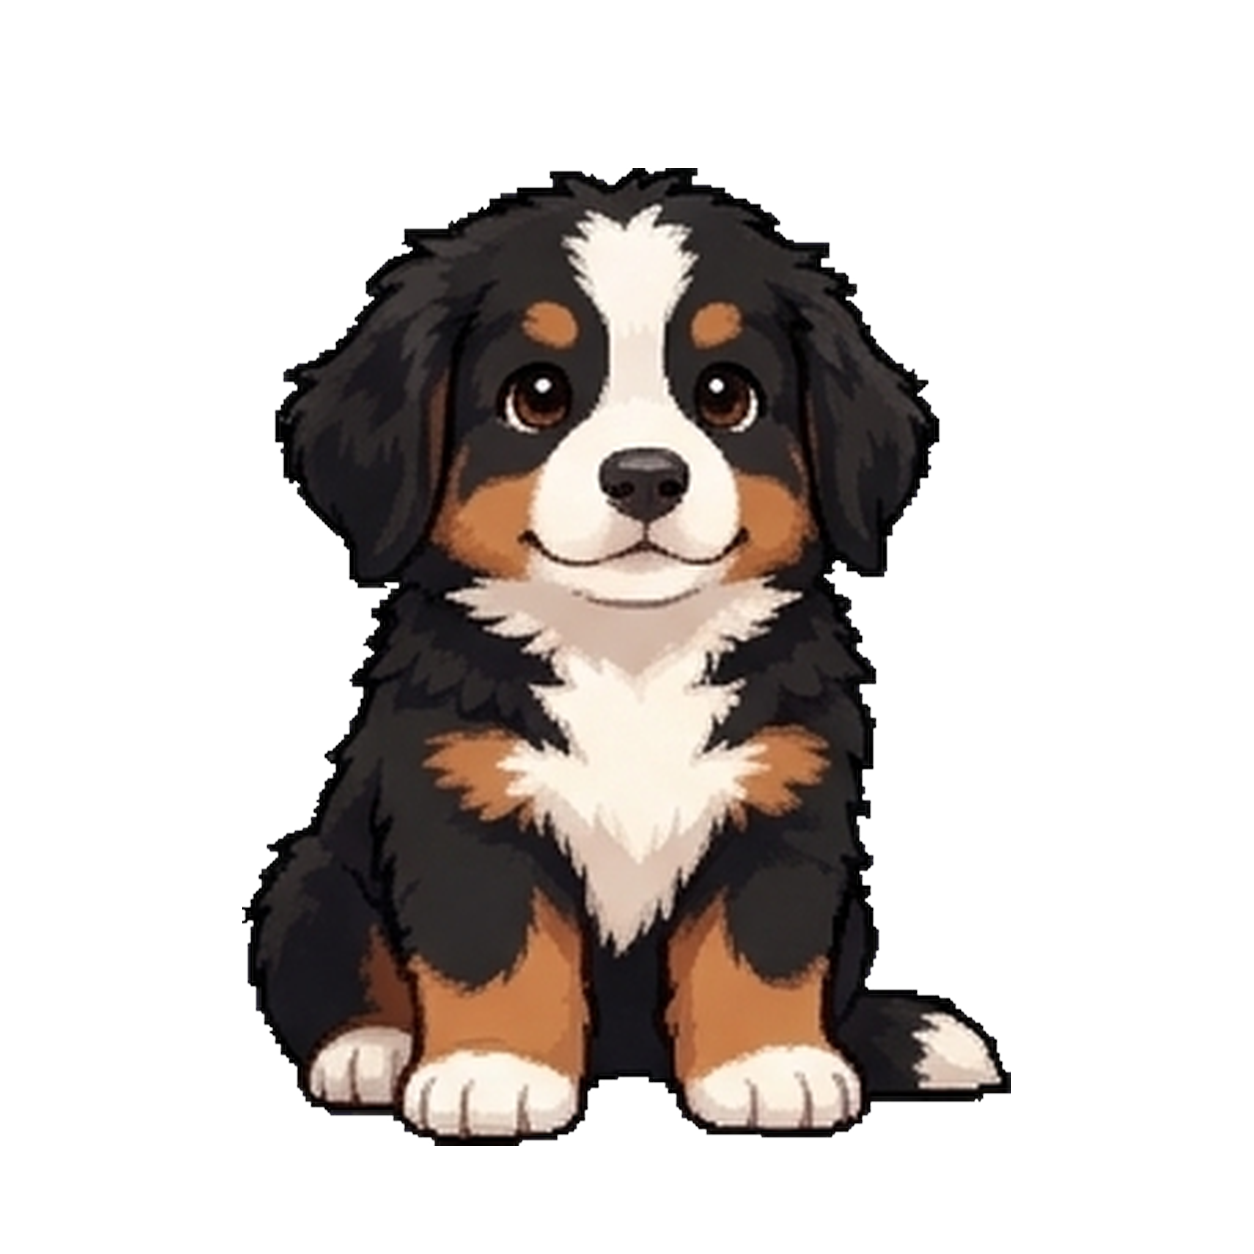
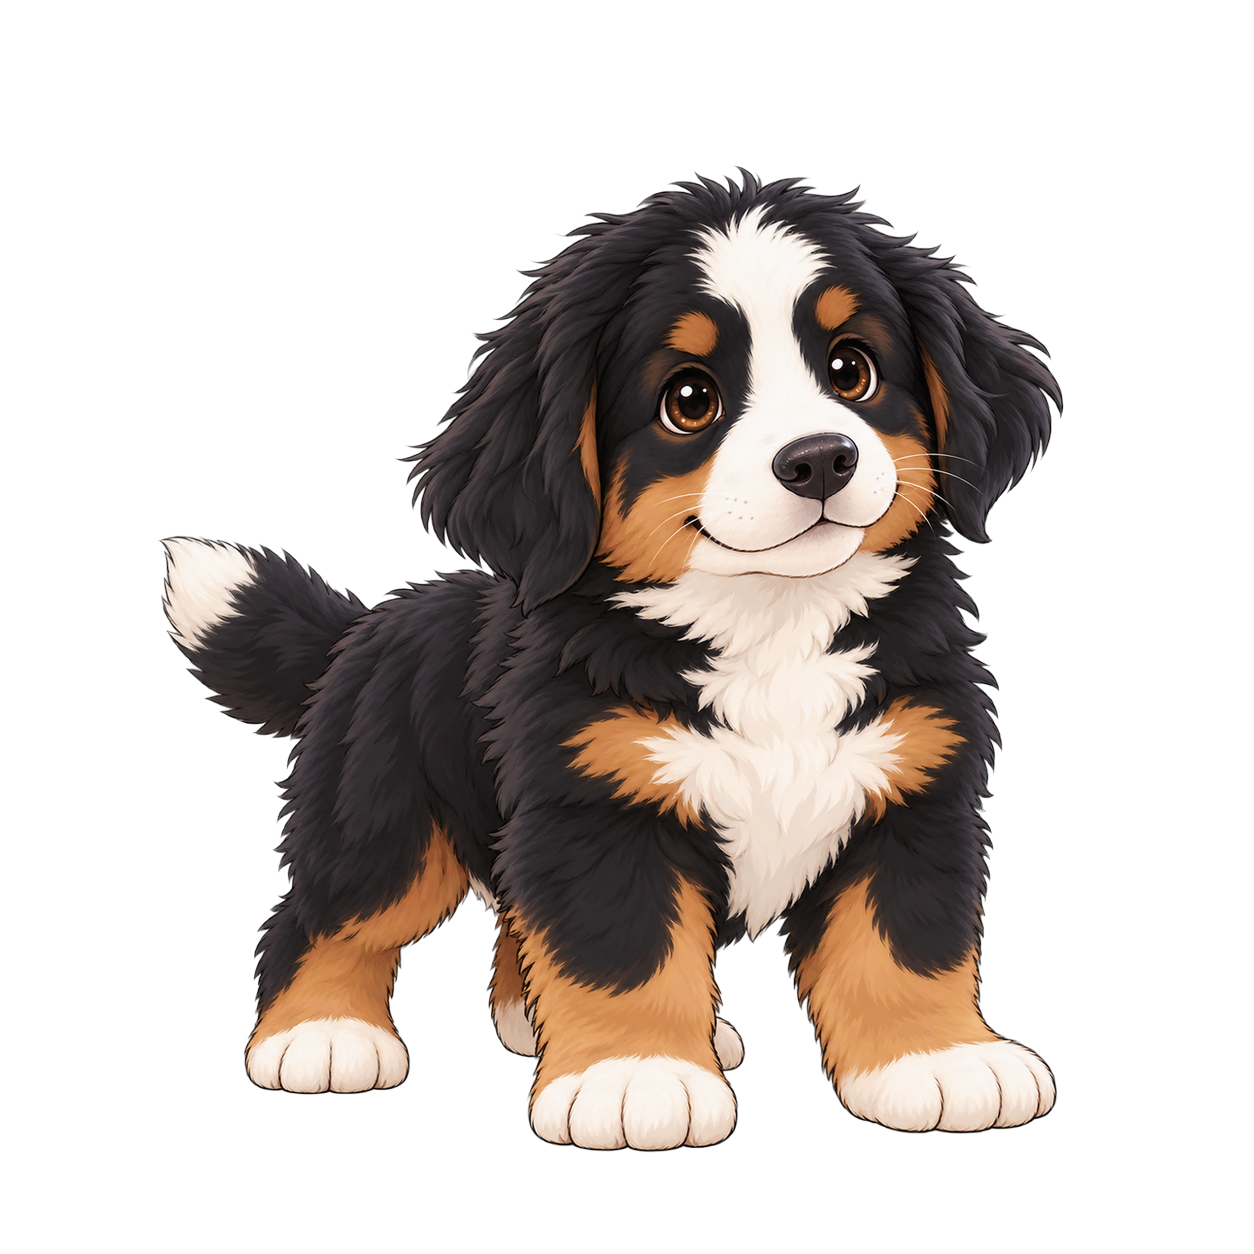
Update Moo Krata with high-res artwork, transparent animations and running GIF
- Replace Moo Krata sprite sheet (assets/mookrata-sprites.png) with new ultra high-res source artwork across all 9 poses
- Ensure 100% clean transparent alpha boundaries with zero white halo or fringe on all wallpapers and dark/light modes
- Add multi-pose showcase animation (assets/mookrata-animation.gif) featuring alert idle, curious head tilt, winking smile, playful stretch bow, energetic running leaps, and sleepy rest
- Add dedicated continuous running gallop loop (assets/mookrata-run.gif)
- Update high-resolution icon (icons/mookrata.png)
- Update README.md with Moo Krata animated previews

diff --git a/README.md b/README.md
@@ -12,6 +12,8 @@
 
 ![ท่าทาง Moo Krata ที่ใช้ในแอป](assets/mookrata-animation.gif)
 
+![Moo Krata วิ่งเล่น](assets/mookrata-run.gif)
+
 ![ผู้พิทักษ์ดวงดาวและยานสำรวจที่ออกแบบสำหรับแอปนี้](preview.png)
 
 ## ตัวละครทั้งหมด
